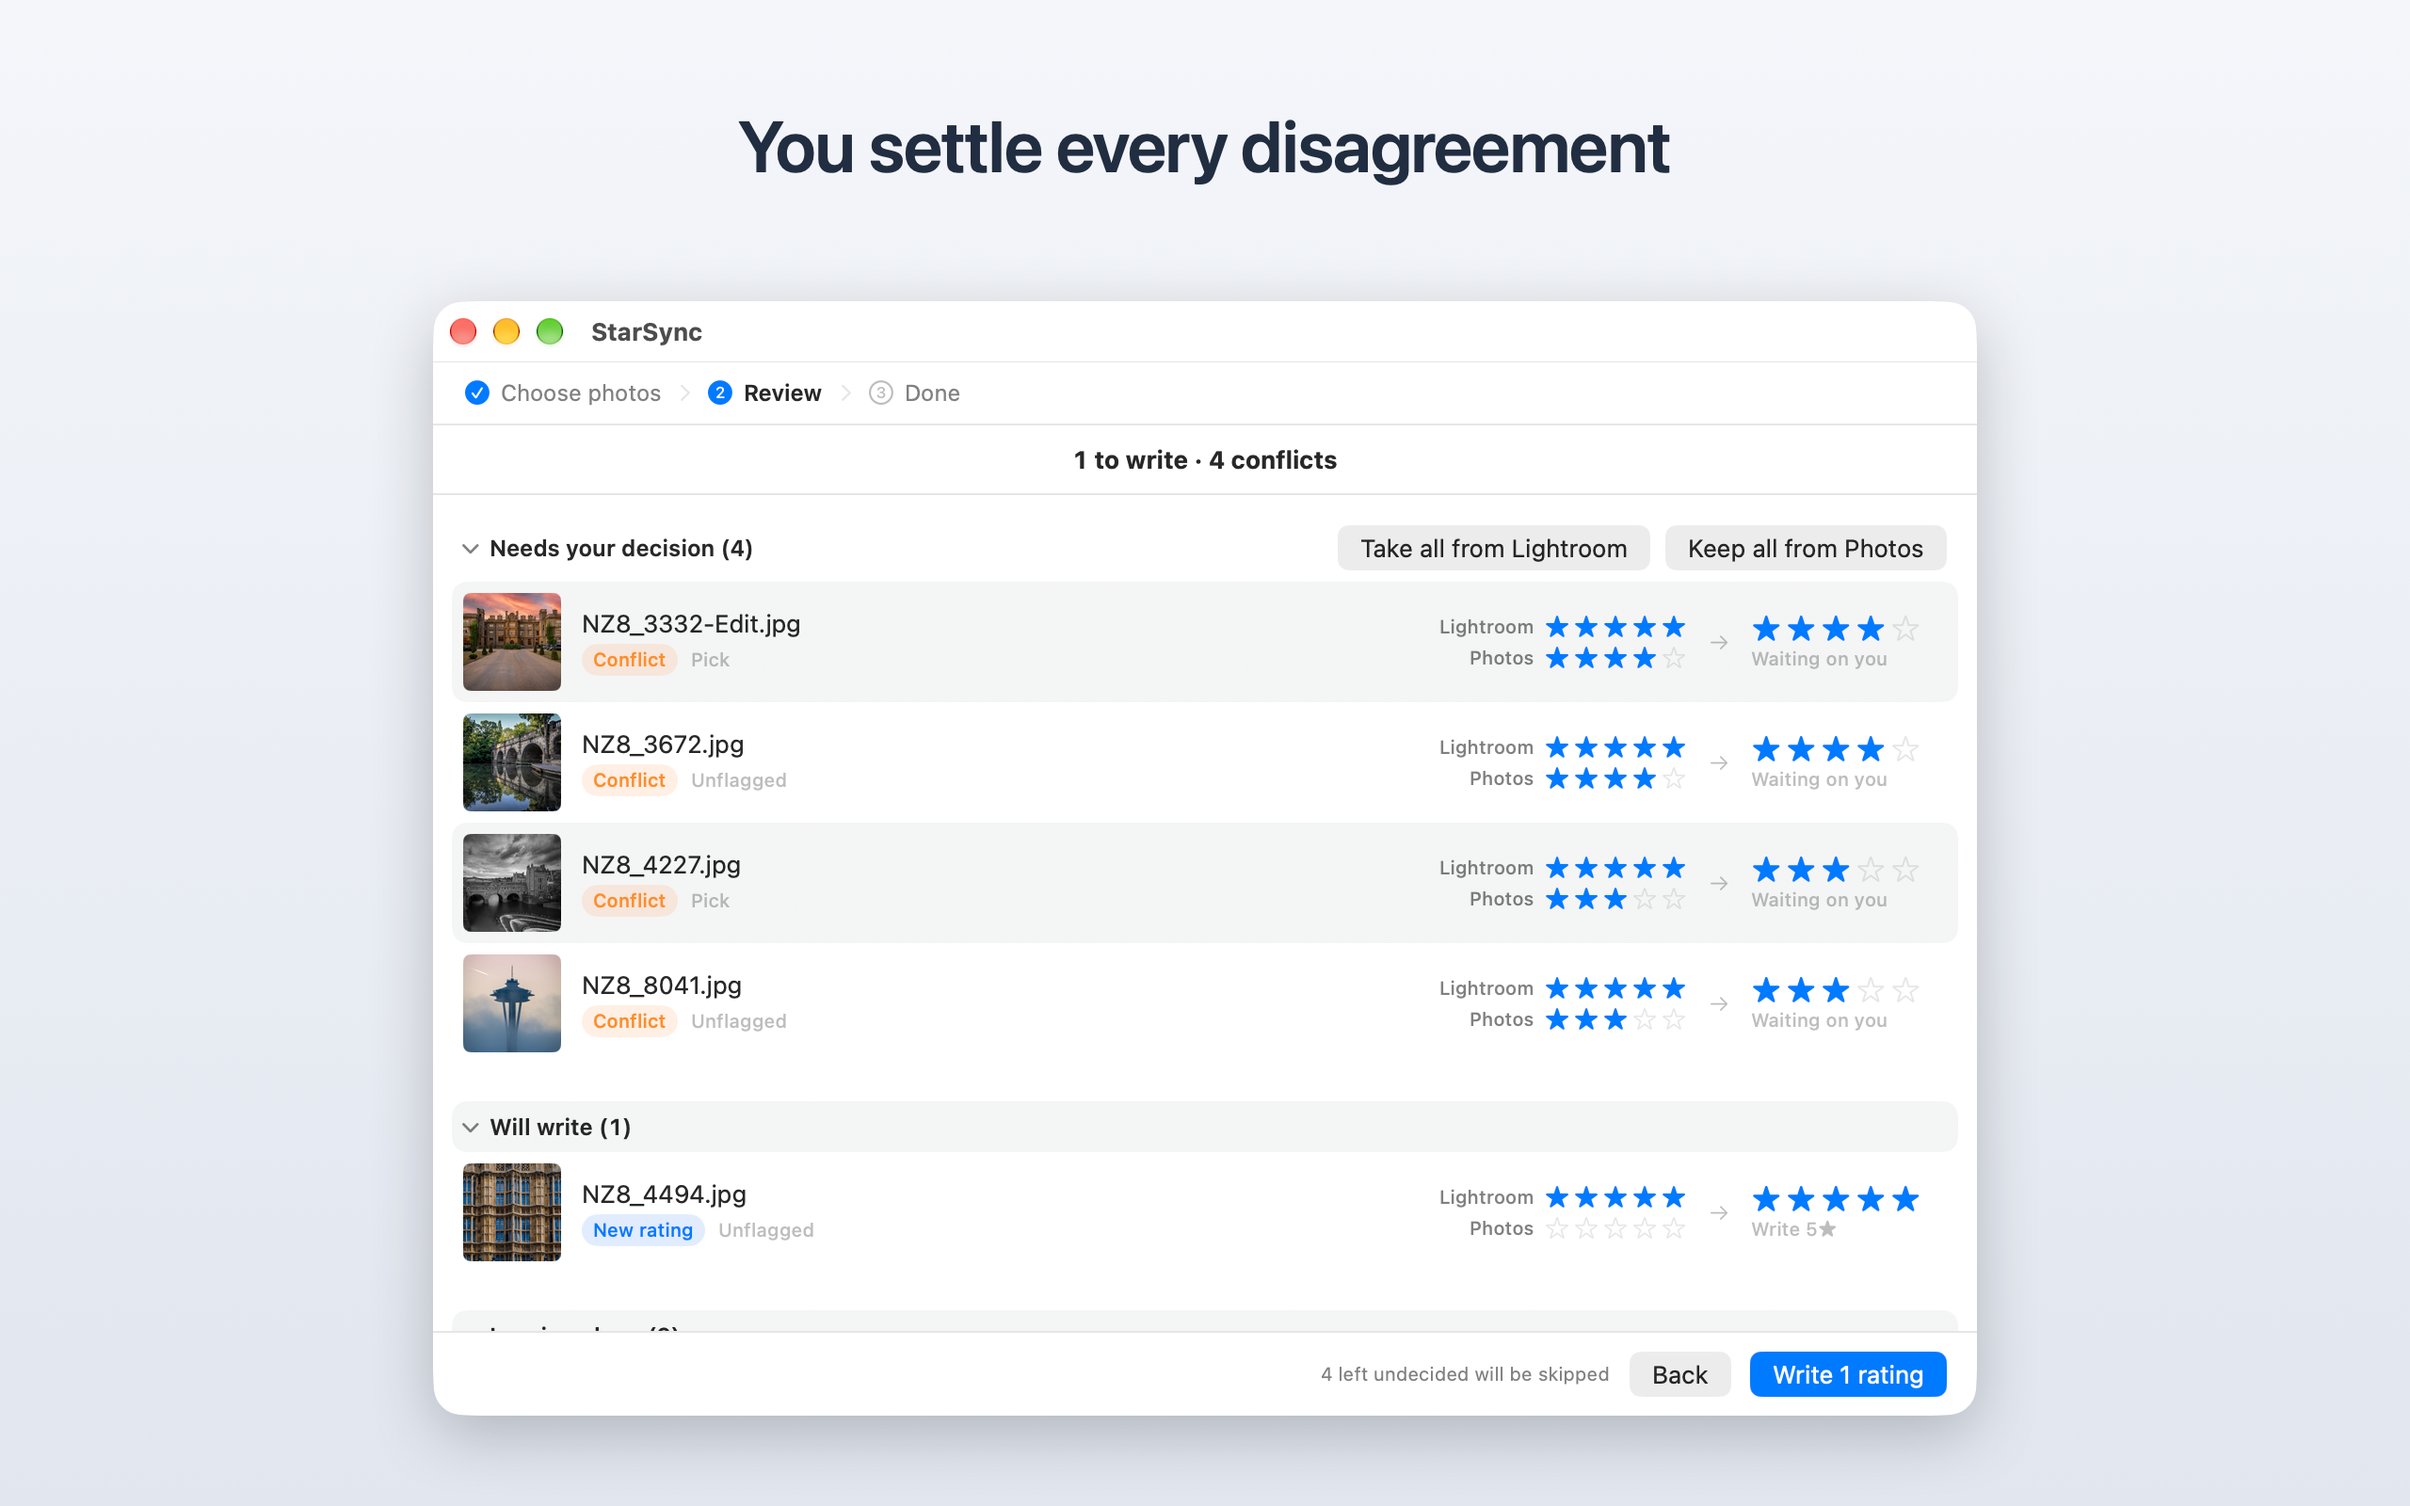
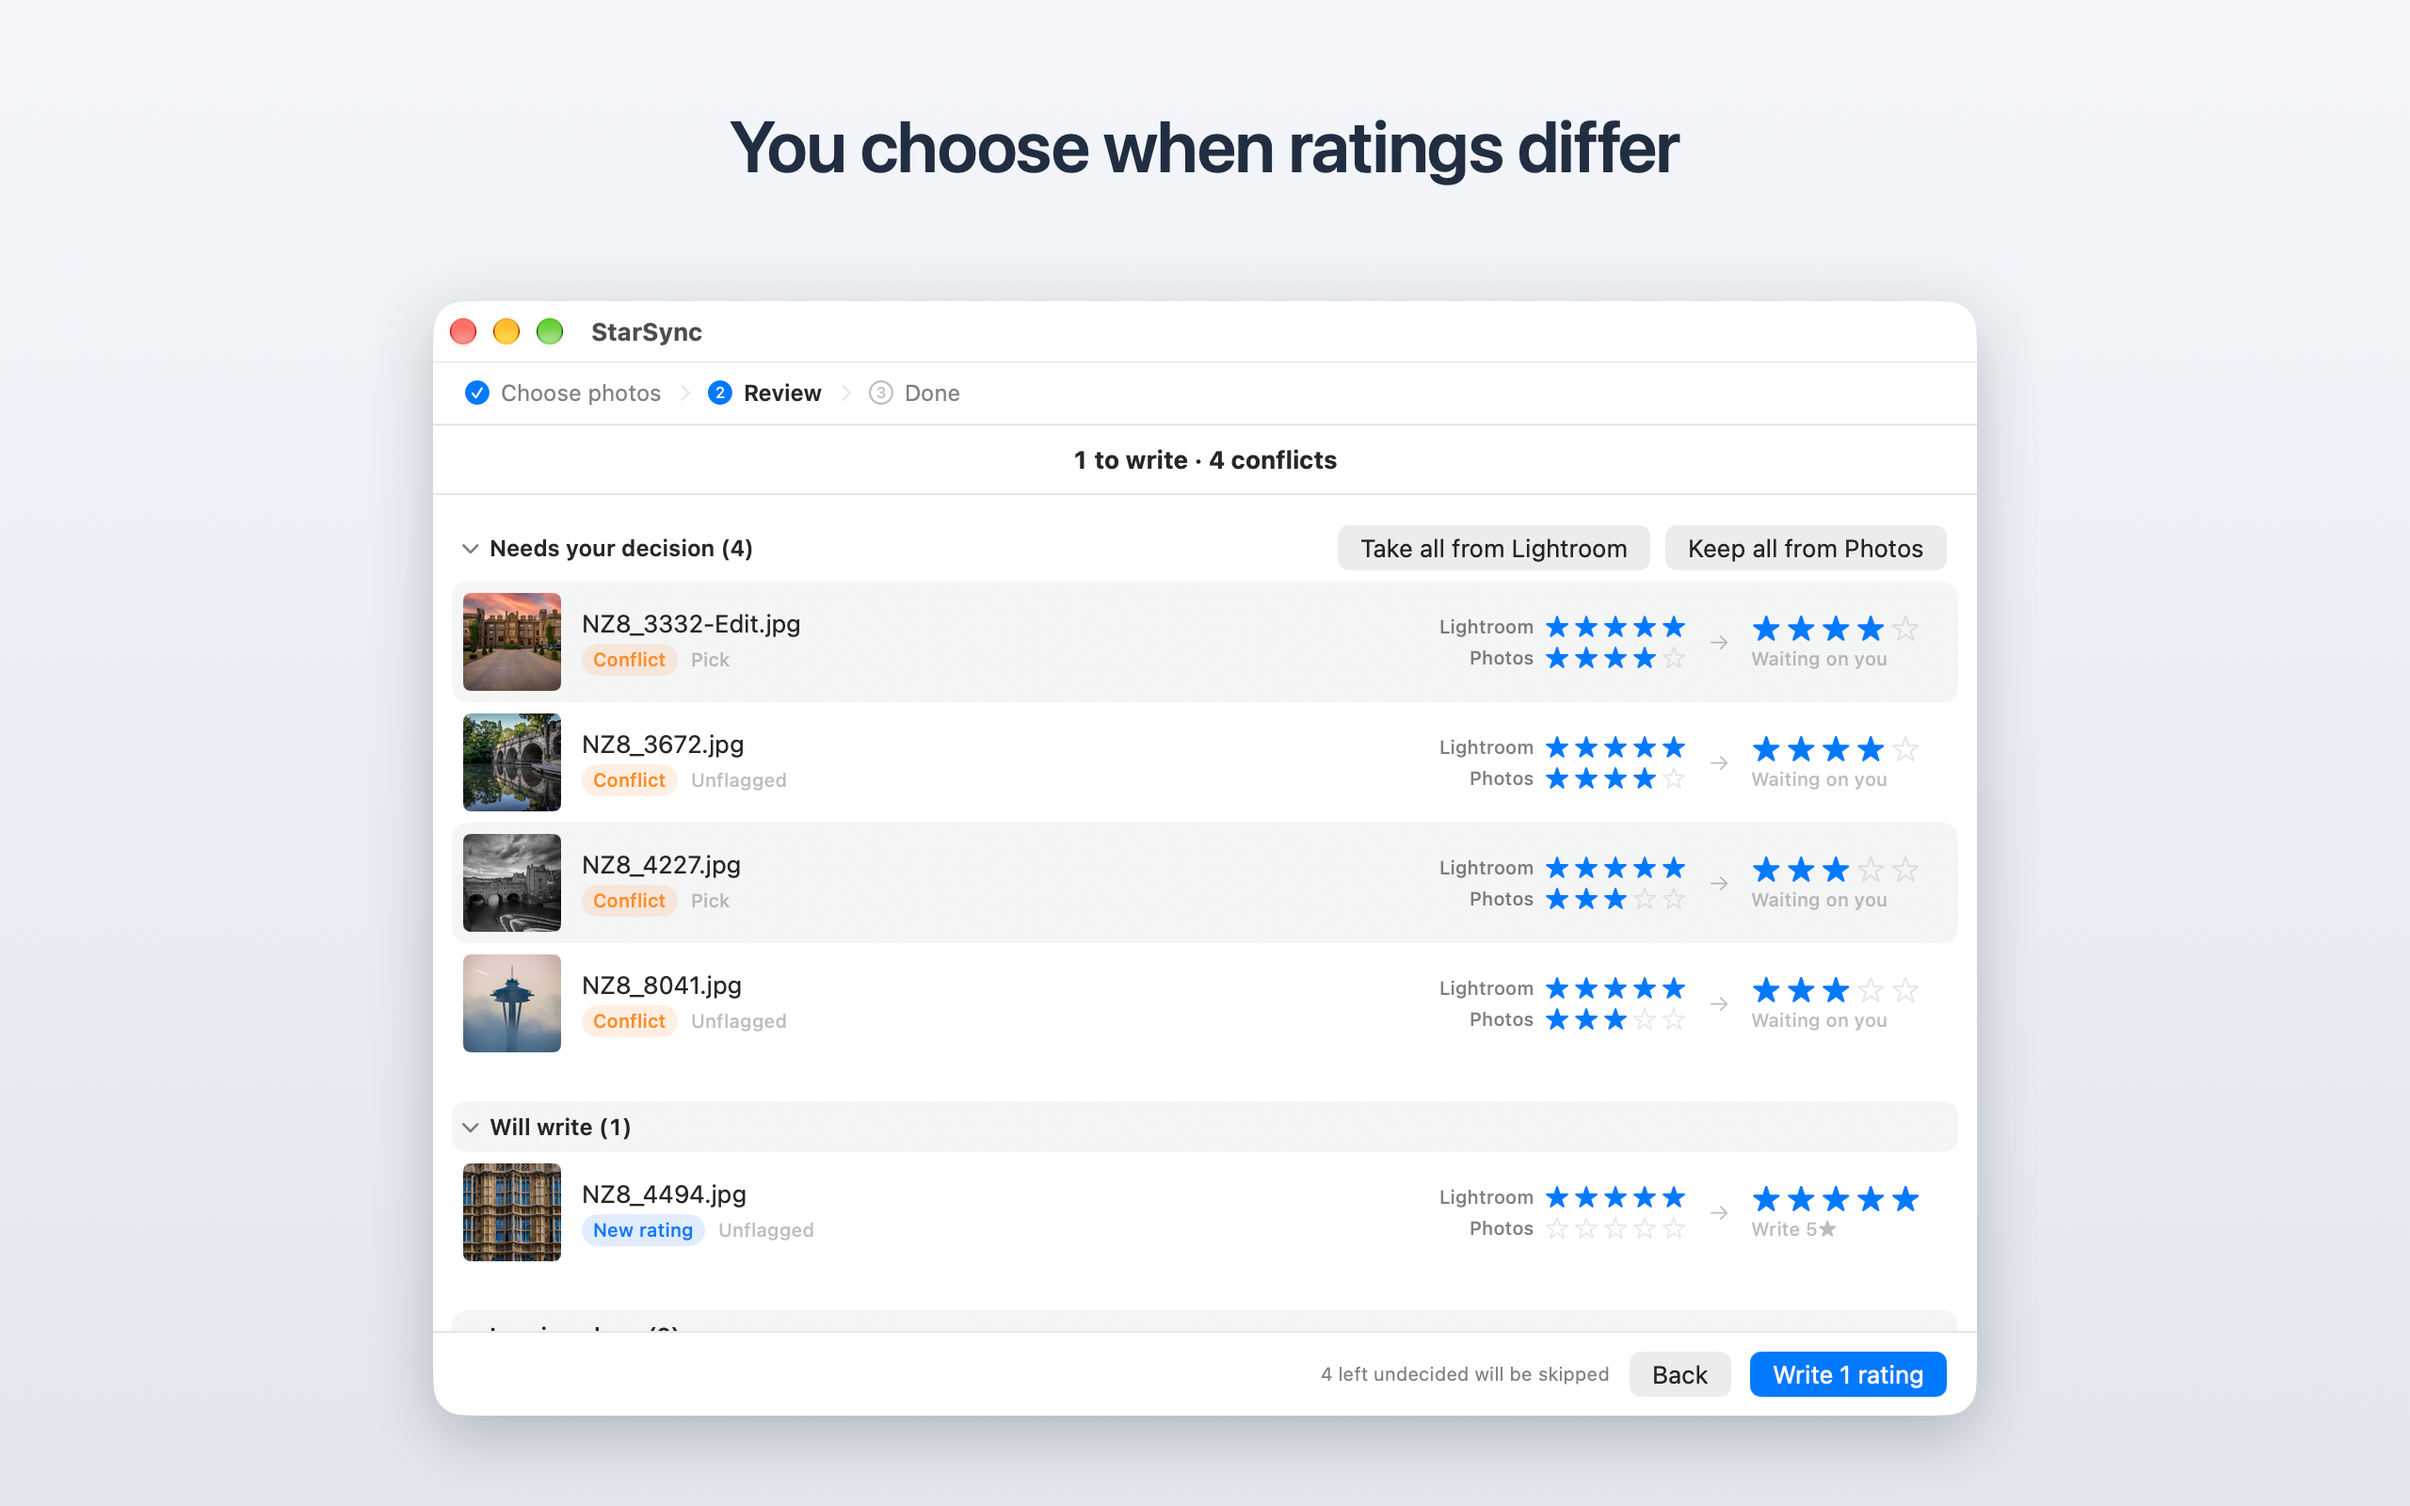
Retake the screenshots and give them plainer captions
The Done capture showed wording the app no longer uses. All of
docs/screenshots is retaken from the StarSync Demo album with the
window frontmost, and the App Store set is rebuilt from it.

- Shot 3 is now the clean Done screen ("Wrote 2 ratings to Photos."),
  captured in Dark and Light as apply-clean-*.png. apply-dark.png, the
  run with one photo left alone, is removed.
- Captions: "Review every change before it's made", "Sync one album or
  your whole catalog", "Undo any sync", "You choose when ratings
  differ".

Changed region(s): [[0.3125, 0.0625, 0.6875, 0.125]]

diff --git a/docs/app-store/make-screenshots.swift b/docs/app-store/make-screenshots.swift
@@ -32,13 +32,13 @@ struct Shot {
 // Review is the screen that explains what the app is for.
 let shots = [
     Shot(file: "preview-dark.png", out: "1-review.png",
-         caption: "See every change before anything is written", light: false),
+         caption: "Review every change before it's made", light: false),
     Shot(file: "source-dark.png", out: "2-choose.png",
-         caption: "Sync one album, or the whole catalog", light: false),
-    Shot(file: "apply-dark.png", out: "3-done.png",
-         caption: "One click puts every rating back", light: false),
+         caption: "Sync one album or your whole catalog", light: false),
+    Shot(file: "apply-clean-dark.png", out: "3-done.png",
+         caption: "Undo any sync", light: false),
     Shot(file: "preview-light.png", out: "4-review-light.png",
-         caption: "You settle every disagreement", light: true),
+         caption: "You choose when ratings differ", light: true),
 ]
 
 func color(_ hex: UInt32) -> CGColor {

diff --git a/docs/screenshots/README.md b/docs/screenshots/README.md
@@ -20,7 +20,8 @@ Don't expect one in a shot.
 | `preview-dark.png` | Review | Dark | The money shot. Four conflicts waiting on a decision, one rating about to be written, and the Lightroom → Photos star columns beside each row. |
 | `preview-light.png` | Review | Light | The same album at the same scroll position, for showing the pair side by side. |
 | `source-dark.png` | Choose photos | Dark | The album list sorted by name, Entire catalog pinned at the top, counts on every row, and the "29 albums with no rated photos hidden" footer. |
-| `apply-dark.png` | Done | Dark | A finished run: "Wrote 1 rating to Photos.", and underneath it the row left alone because Photos moved on after the preview was built — rule 6 doing its job, which no other shot shows. |
+| `apply-clean-dark.png` | Done | Dark | A finished run: "Wrote 2 ratings to Photos.", with Revert this sync and Sync more photos under it. The App Store's third screenshot. |
+| `apply-clean-light.png` | Done | Light | The same screen in Light. |
 
 ## Not illustrated
 
